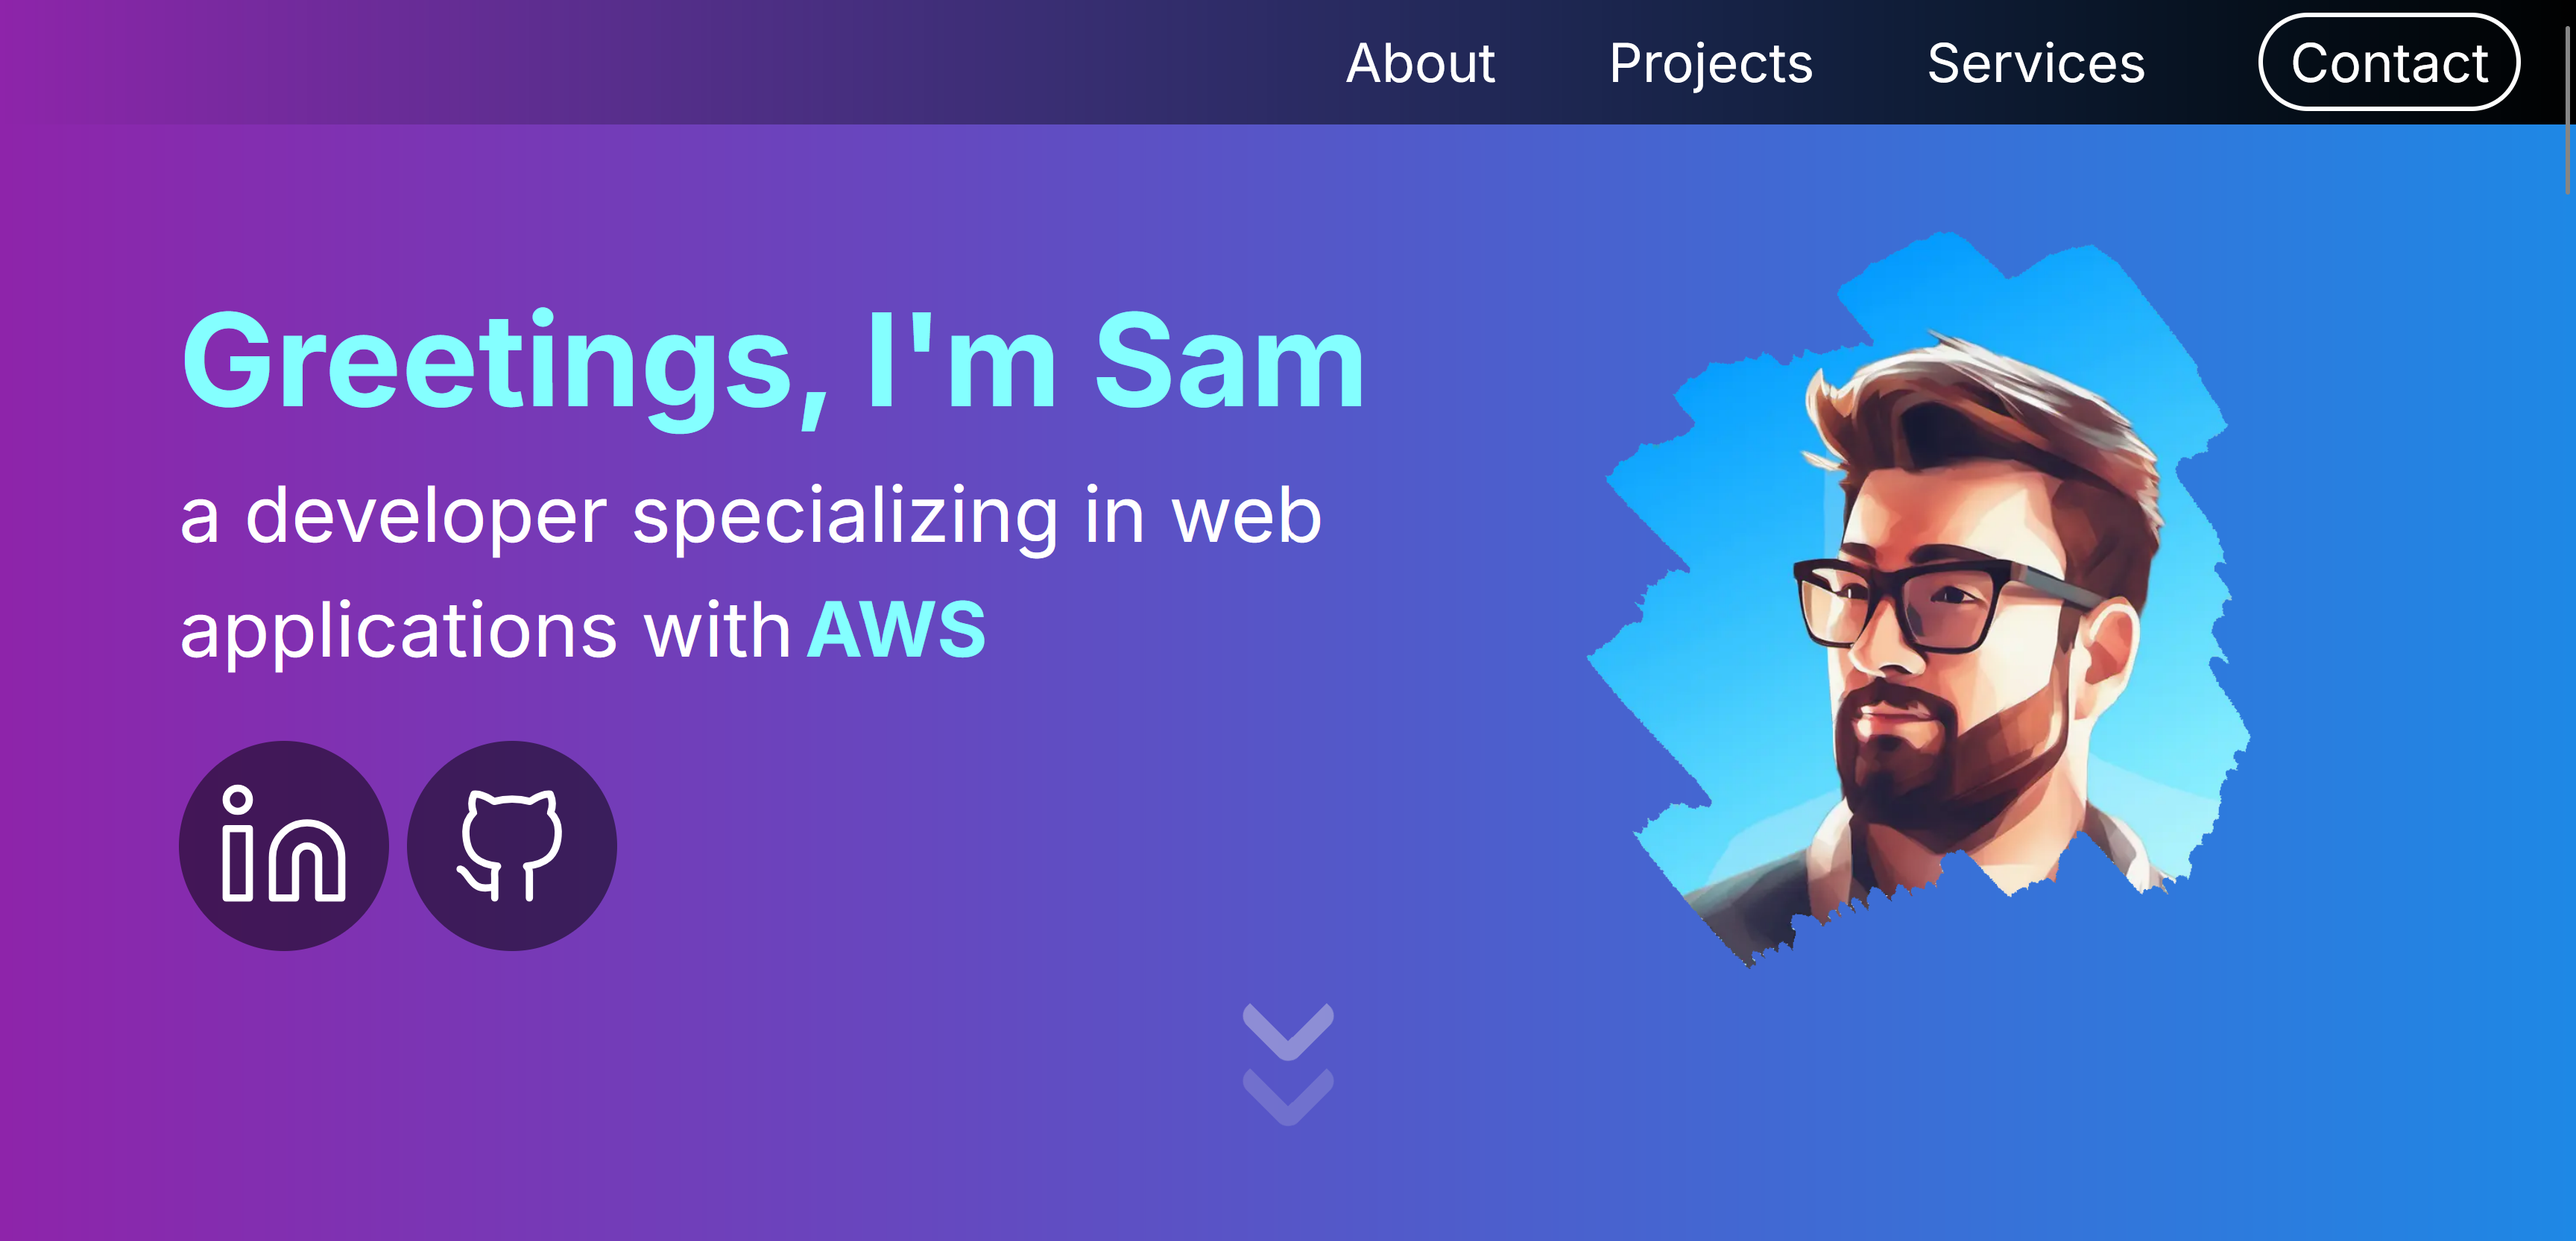
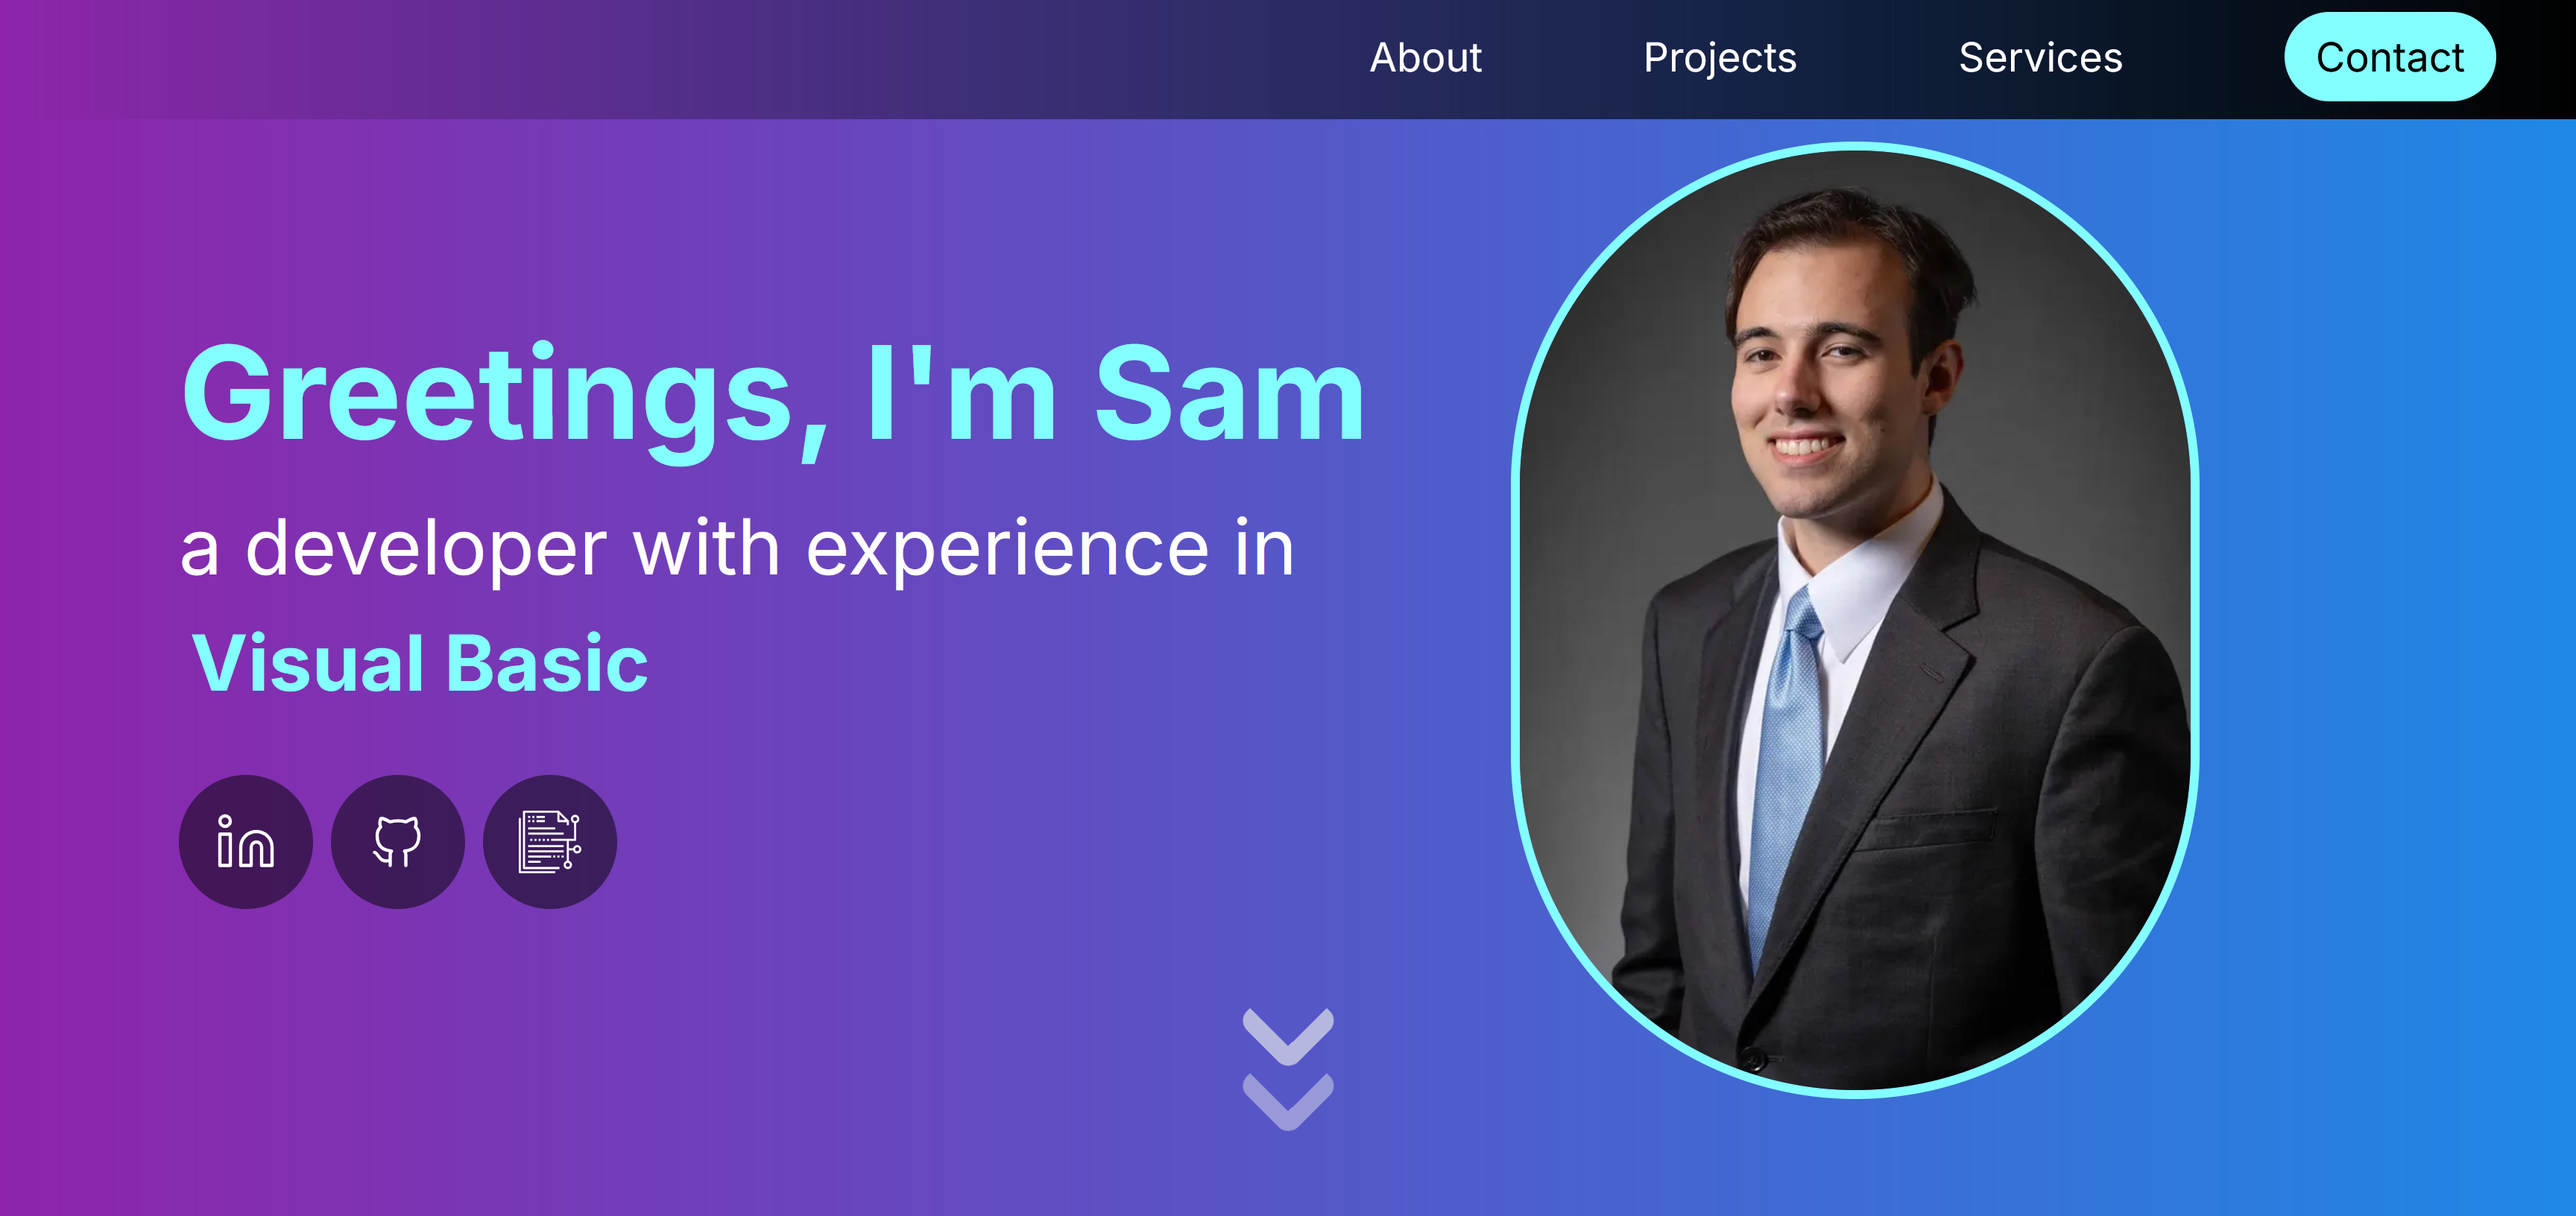
picture changes and contact button

diff --git a/typescript/portfolio/src/static/Contact.tsx b/typescript/portfolio/src/static/Contact.tsx
@@ -1,8 +1,10 @@
 function Contact () {
   return (
-    <section className="fixed top-1/2 left-1/2 -translate-x-1/2 -translate-y-1/2 desktop:w-1/3 mobile:w-full mobile:px-4 mobile:max-w-3xl">
-      <div className="px-2 mx-auto">
-        <form action="https://formsubmit.co/YOUR_EMAIL" className="space-y-8" method="POST">
+
+    <section className="fixed top-1/2 left-1/2 -translate-x-1/2 -translate-y-1/2 w-[500px] max-w-4xl mobile:w-full mobile:px-6 p-6">
+      <div className="px-4 py-6 mx-auto space-y-4">
+
+        {/* <form action="https://formsubmit.co/YOUR_EMAIL" className="space-y-8" method="POST">
           <div>
             <label htmlFor="email" className="block mb-2 text-sm font-medium text-white dark:text-gray-300">Your email</label>
             <input type="email" id="email" name="email" required className="shadow-sm bg-gray-50 border border-gray-300 text-gray-800 text-sm rounded-lg focus:ring-primary-500 focus:border-primary-500 block w-full p-2.5 dark:bg-gray-700 dark:border-gray-600 dark:placeholder-gray-400 dark:text-white dark:focus:ring-primary-500 dark:focus:border-primary-500 dark:shadow-sm-light" placeholder="your@mail.com" />
@@ -16,7 +18,32 @@ function Contact () {
             <textarea id="message" name="message" rows={6} className="block p-2.5 w-full text-sm text-gray-800   bg-gray-50 rounded-lg shadow-sm border border-gray-300 focus:ring-primary-500 focus:border-primary-500 dark:bg-gray-700 dark:border-gray-600 dark:placeholder-gray-400 dark:text-white dark:focus:ring-primary-500 dark:focus:border-primary-500" placeholder="Leave a comment..."></textarea>
           </div>
           <button type="submit" className="py-3 px-5 text-sm font-medium text-center text-white rounded-lg bg-gray-700 sm:w-fit hover:bg-primary-800 focus:ring-4 focus:outline-none focus:ring-primary-300 dark:bg-primary-600 dark:hover:bg-primary-700 dark:focus:ring-primary-800">Send message</button>
-        </form>
+        </form> */}
+
+        <div className="flex justify-between">
+          <span className="font-semibold">Phone number:</span>
+          <span>703-969-6032</span>
+        </div>
+
+        <div className="flex justify-between">
+          <span className="font-semibold">Email:</span>
+          <span>Sam.tlor1@gmail.com</span>
+        </div>
+
+        <div className="flex justify-between">
+          <span className="font-semibold">LinkedIn:</span>
+          <span><a href="https://www.linkedin.com/in/sam-tlor/" className="text-blue-500 underline">
+            https://www.linkedin.com/in/sam-tlor/
+          </a></span>
+        </div>
+
+        <div className="flex justify-between">
+          <span className="font-semibold">GitHub:</span>
+          <a href="https://www.linkedin.com/in/sam-tlor/" className="text-blue-500 underline">
+            https://github.com/SamTlor/SamTlor
+          </a>
+        </div>
+
       </div>
     </section>)
 }

diff --git a/typescript/portfolio/src/app/layout.tsx b/typescript/portfolio/src/app/layout.tsx
@@ -5,8 +5,8 @@ import "./globals.css";
 const inter = Inter({ subsets: ["latin"] });
 
 export const metadata: Metadata = {
-  title: "Create Next App",
-  description: "Generated by create next app",
+  title: "Sam Taylor's Portfolio",
+  description: "Generated by Sam Taylor's hard work",
 };
 
 export default function RootLayout({
